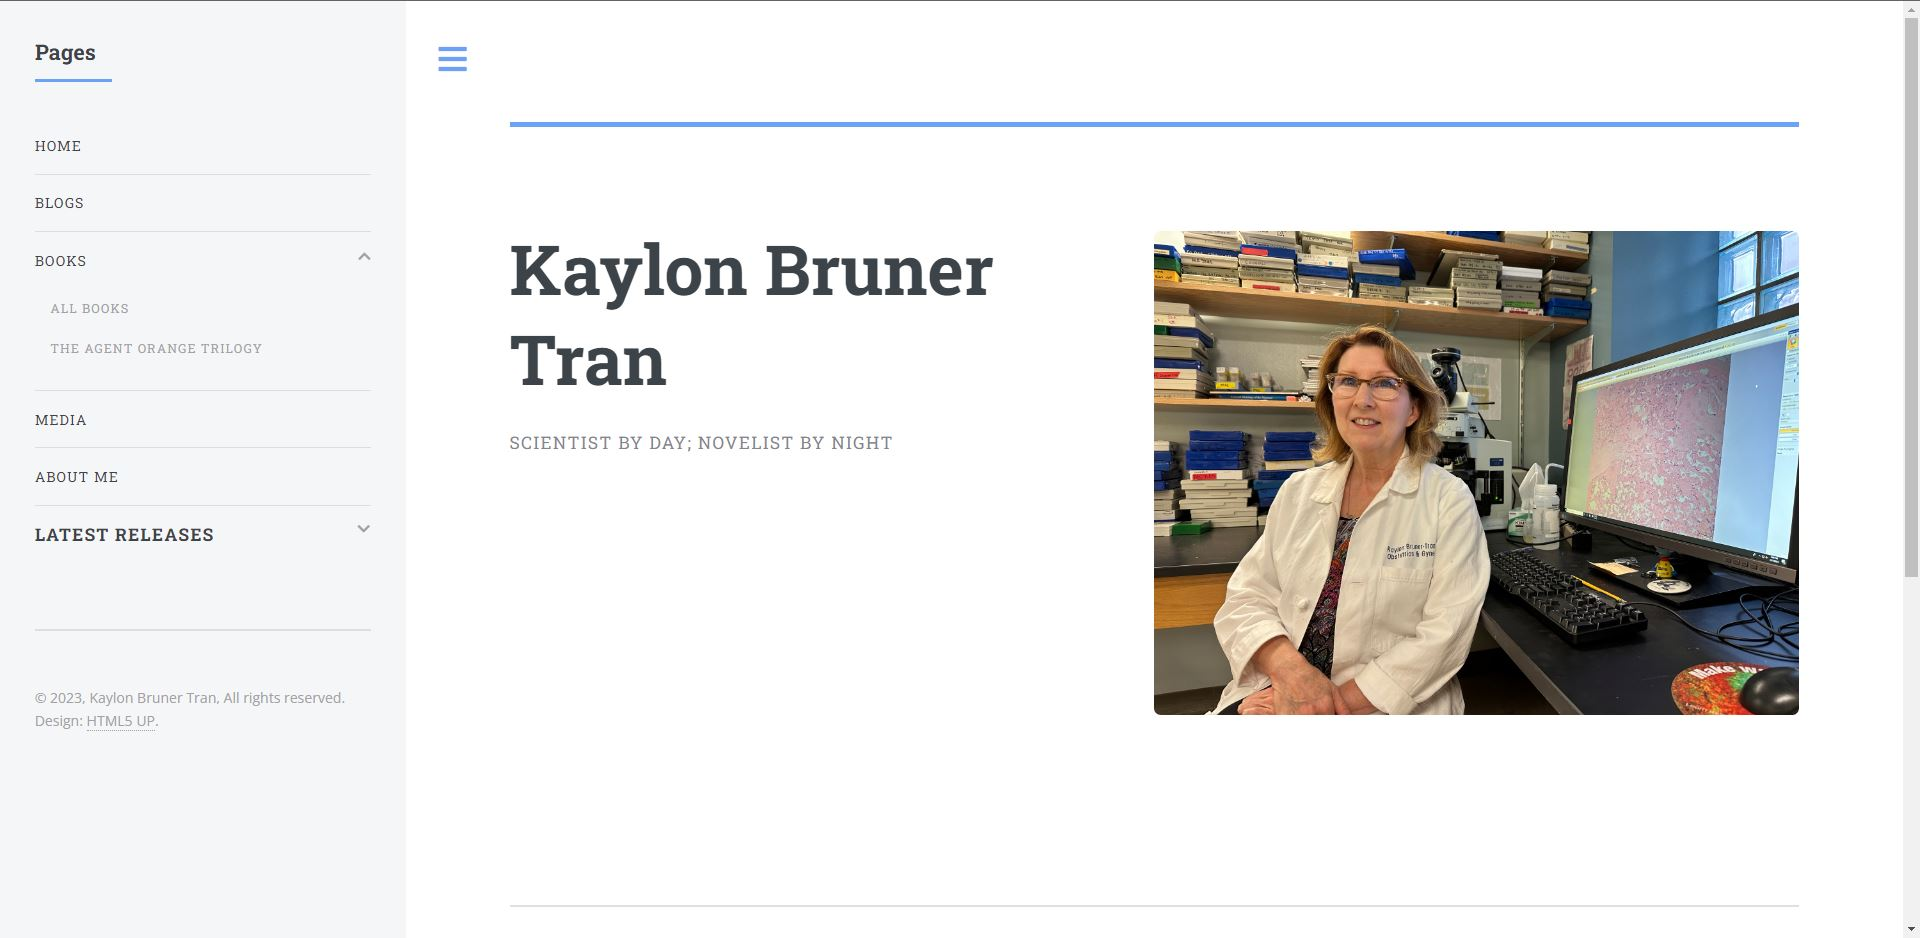
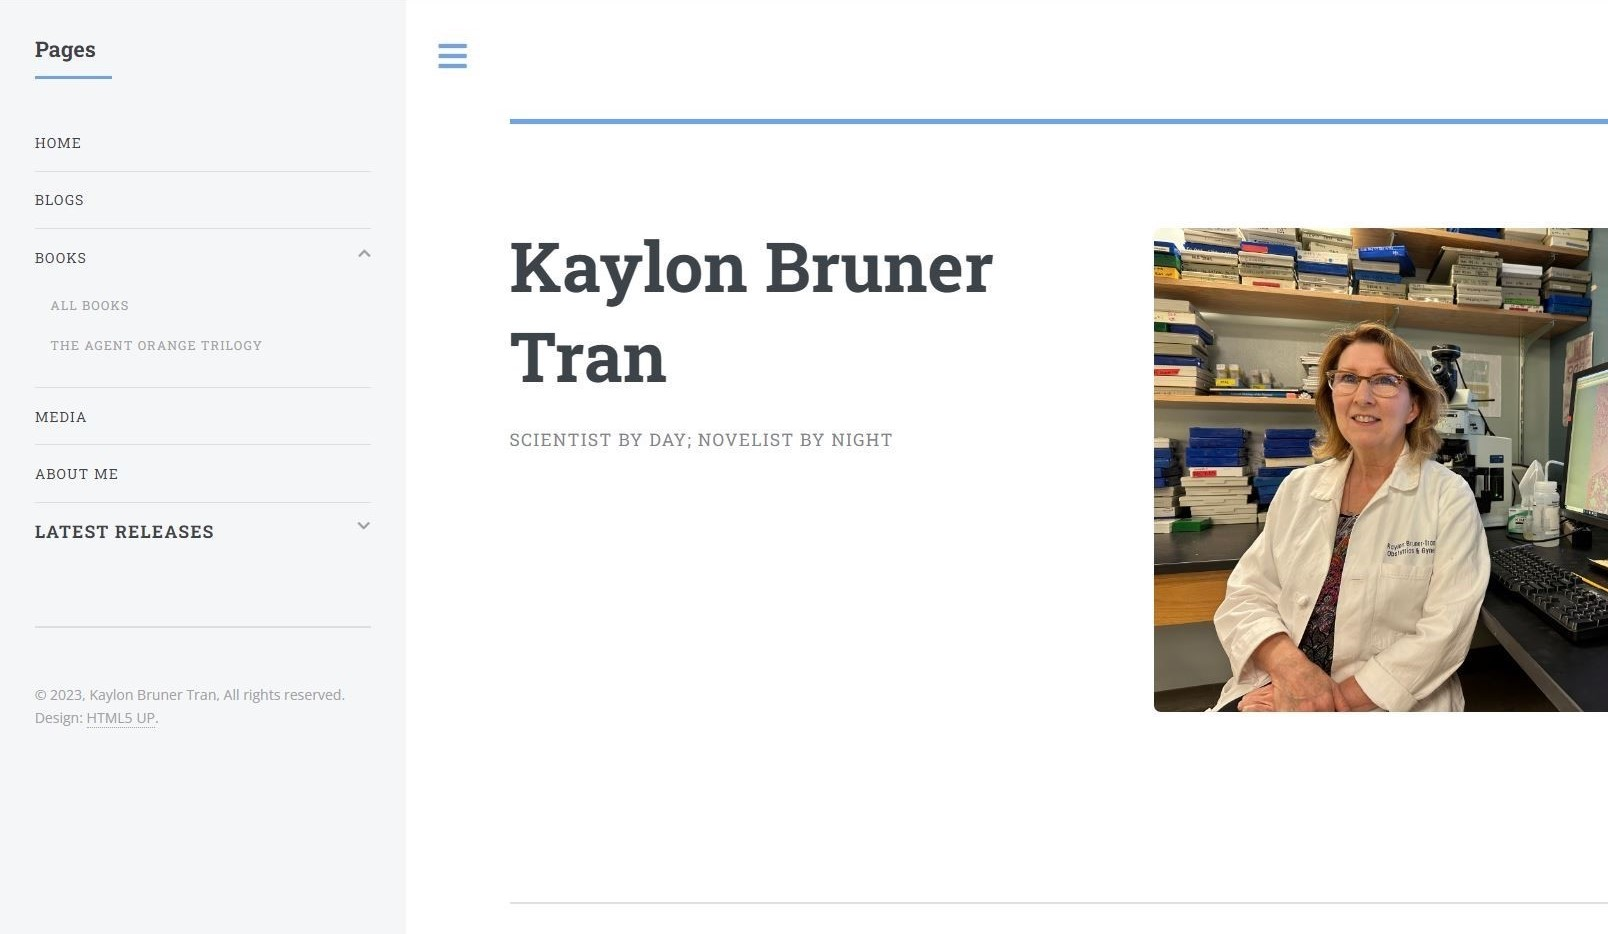
Projects

diff --git a/projects.html b/projects.html
@@ -59,7 +59,7 @@
 				<!-- KBT Website -->
 				<div class="col-4 col-12-medium" text-align: left;>
 					<section class="highlight">
-						<a href="projects/kbtWebsite.html" class="image featured"><img style="border:4px solid black" src="projects/images/KBT Website/Home 1.JPG" alt="Home page for Kaylon bruner tran dot com" /></a> <br>
+						<a href="projects/kbtWebsite.html" class="image featured"><img style="border:4px solid black" src="projects/images/KBT Website/Home 1 - Half.JPG" alt="Home page for Kaylon bruner tran dot com" /></a> <br>
 						<h3><a href="projects/kbtWebsite.html">Personal Website - In Progress </a></h3>
 								<p> 
 									<strong> Team Size: </strong>  1 <br>
